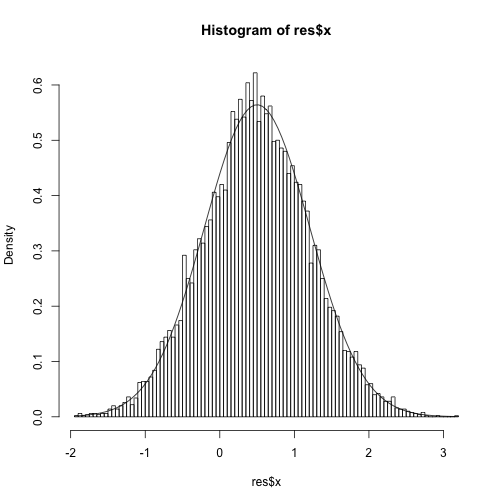
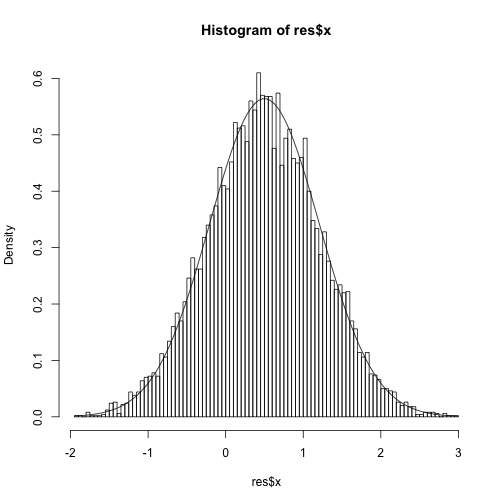
updated slice sampling post

diff --git a/_posts/2013-10-24-slice-sampling.md b/_posts/2013-10-24-slice-sampling.md
@@ -40,7 +40,8 @@ In this first example, the target distribution is Exp(1). The set A is just the 
 {% highlight r %}
 # Exponential example
 set.seed(6)
-res = slice(10, 0.1, dexp, function(u, x = NA) c(0, -log(u)))
+A = function(u, x = NA) c(0, -log(u))
+res = slice(10, 0.1, dexp, A)
 x = res$x
 u = res$u
 {% endhighlight %}
@@ -57,17 +58,6 @@ segments(x[i], 0, x[i], dexp(x[i]), col = "gray")
 arrows(x[i], u[i], x[i], u[i + 1], length = 0.1)
 points(x[i], u[i + 1])
 segments(A(u[i + 1])[1], u[i + 1], A(u[i + 1])[2], u[i + 1], col = "gray")
-{% endhighlight %}
-
-
-
-{% highlight text %}
-## Error: could not find function "A"
-{% endhighlight %}
-
-
-
-{% highlight r %}
 arrows(x[i], u[i + 1], x[i + 1], u[i + 1], length = 0.1)
 points(x[i + 1], u[i + 1], pch = 19)
 {% endhighlight %}
@@ -100,26 +90,11 @@ And this is comparing the marginal draws for x to the truth.
 
 
 {% highlight r %}
-hist(slice(10000, 0.1, dexp, function(u) c(0, -log(u)))$x, freq = F, 100)
-{% endhighlight %}
-
-
-
-{% highlight text %}
-## Error: unused argument (x[i - 1])
-{% endhighlight %}
-
-
-
-{% highlight r %}
+hist(slice(10000, 0.1, dexp, A)$x, freq = F, 100)
 curve(dexp, add = TRUE)
 {% endhighlight %}
 
-
-
-{% highlight text %}
-## Error: plot.new has not been called yet
-{% endhighlight %}
+![center](/../figs/2013-10-24-slice-sampling/unnamed-chunk-5.png) 
 
 
 Now I turn to a standard normal distribution where we pretend we cannot invert the density and therefore need another approach. The approach is going to be to use numerical methods to find the interval A (so, again assuming a unimodal target). The magic happens below where the `uniroot` function is used to find the endpoints of the interval.
@@ -155,18 +130,7 @@ points(x[i], u[i], pch = 19)
 segments(x[i], 0, x[i], dnorm(x[i]), col = "gray")
 arrows(x[i], u[i], x[i], u[i + 1], length = 0.1)
 points(x[i], u[i + 1])
-segments(A(u[i + 1])[1], u[i + 1], A(u[i + 1])[2], u[i + 1], col = "gray")
-{% endhighlight %}
-
-
-
-{% highlight text %}
-## Error: 'xx' is missing
-{% endhighlight %}
-
-
-
-{% highlight r %}
+segments(A(u[i + 1], x[i])[1], u[i + 1], A(u[i + 1], x[i])[2], u[i + 1], col = "gray")
 arrows(x[i], u[i + 1], x[i + 1], u[i + 1], length = 0.1)
 points(x[i + 1], u[i + 1], pch = 19)
 {% endhighlight %}
@@ -200,6 +164,8 @@ curve(dnorm, add = TRUE)
 ![center](/../figs/2013-10-24-slice-sampling/unnamed-chunk-10.png) 
 
 
+## Using an unnormalized density
+
 Slice sampling can also be performed on the unnormalized density. 
 
 
@@ -207,32 +173,19 @@ Slice sampling can also be performed on the unnormalized density.
 #### Standard normal with unnormalized density
 set.seed(6)
 target = function(x) exp(-x^2/2)  # The normalizing factor is 1/sqrt(2pi)
-A = function(u) {
+A = function(u, x) {
     x = sqrt(-2 * log(u))
     return(c(-x, x))
 }
 
 hist(slice(10000, 0.1, target, A)$x, freq = F, 100)
-{% endhighlight %}
-
-
-
-{% highlight text %}
-## Error: unused argument (x[i - 1])
-{% endhighlight %}
-
-
-
-{% highlight r %}
 curve(dnorm, add = TRUE)
 {% endhighlight %}
 
+![center](/../figs/2013-10-24-slice-sampling/unnamed-chunk-11.png) 
 
 
-{% highlight text %}
-## Error: plot.new has not been called yet
-{% endhighlight %}
-
+## Learning the truncation points
 
 Here is an alternative version of the slice sampler that samples from a distribution other than uniform. The main purpose of introducing this is in Bayesian inference where the target distribution is the posterior, p(x|y) \propto p(y|x) p(x), and the augmentation is p(u,x)\propto p(x) I(0<u<p(y|x)). So the conditional for x|u is a truncated version of the prior. 
 
